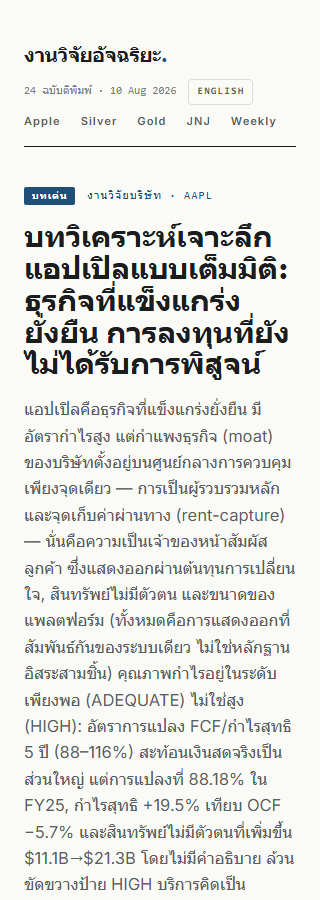
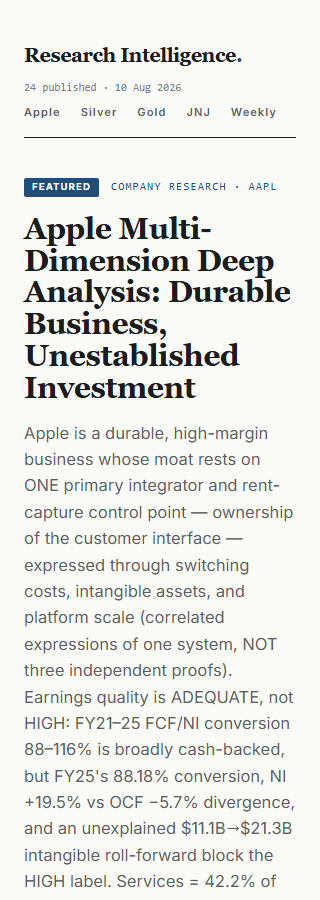
Revert "chore(i18n): re-capture mobile screenshots in Thai (default lang) + reportClient title_th/summary_th/content_th types"
This reverts commit 22d467d7f579be901deac597299528096b4293e3.

diff --git a/frontend/src/api/reportClient.ts b/frontend/src/api/reportClient.ts
@@ -2,7 +2,6 @@
 export interface ReportMeta {
   slug: string
   title: string
-  title_th?: string | null
   type: string
   subject: string
   date: string
@@ -10,13 +9,11 @@ export interface ReportMeta {
   status: string
   updated: string
   summary: string
-  summary_th?: string | null
   path: string
 }
 
 export interface ReportDetail extends ReportMeta {
   content: string
-  content_th?: string | null
 }
 
 const BASE = "/api";
